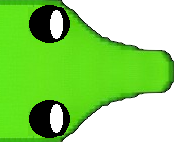
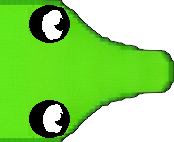
-

Changed region(s): [[0.2299, 0.7324, 0.3736, 0.9296], [0.2299, 0.0563, 0.3161, 0.2817], [0.3161, 0.1127, 0.3736, 0.2254]]

diff --git a/game.py b/game.py
@@ -606,6 +606,10 @@ class Game:
                             self.running = False
                     continue
 
+                if event.key == pygame.K_q:
+                    self.jump_to_final_boss()
+                    continue
+
                 if not self.game_started and self.menu_page == "main" and self.intro_active:
                     self.intro_active = False
                     self.intro_done = True
@@ -1089,12 +1093,19 @@ class Game:
         boss_x, boss_y = self.boss_pos
         return int(boss_x), int(boss_y), self.boss_width, self.boss_height
 
+    def _boss_contact_hitbox_cells(self) -> tuple[float, float, float, float]:
+        boss_x, boss_y = self.boss_pos
+        inset = 0.2
+        width = max(0.1, self.boss_width - inset * 2)
+        height = max(0.1, self.boss_height - inset * 2)
+        return boss_x + inset, boss_y + inset, width, height
+
     def _check_side_scroller_collisions(self):
         if not self.snake:
             return
         head_x, head_y = self.snake.head
         if self.boss_active:
-            bx, by, bw, bh = self._boss_rect_cells()
+            bx, by, bw, bh = self._boss_contact_hitbox_cells()
             if bx <= head_x < bx + bw and by <= head_y < by + bh:
                 self.play_sound("death")
                 self.game_over = True
@@ -1225,6 +1236,46 @@ class Game:
         if self.game_started:
             self.complete_level()
 
+    def jump_to_final_boss(self):
+        """Debug helper: jump straight to the final boss fight."""
+        self.game_started = True
+        self.game_over = False
+        self.level_clear = False
+        self.loading_active = False
+        self.story_active = False
+        self.story_text = ""
+        self.story_next_action = ""
+        self.game_paused = False
+        self.menu_page = "main"
+        self.intro_active = False
+        self.intro_done = True
+        self.input_locked = False
+        self.queued_direction = None
+        self.sacrifice_shot_active = False
+        self.sacrifice_explosions.clear()
+        self.side_scroller_active = False
+        self.player_shots.clear()
+        self.boss_bullets.clear()
+        self.boss_active = False
+        self.boss_hp = 0
+        self.boss_state = "hidden"
+        self.space_fade = 0.0
+        self.space_fade_time_ms = 0.0
+        self.space_fade_active = False
+        self.starfield = []
+
+        self.start_music()
+        self.level = self.escape_level
+        self.level_start_points = self.points
+        self.level_start_time_ms = self.elapsed_time_ms
+        self.layout_ready = False
+        self.start_level()
+        self.enter_side_scroller()
+        self.sacrifice_ammo = max(self.sacrifice_ammo, 10)
+        self.space_fade = 1.0
+        self._start_boss_approach()
+        self.spawn_food()
+
     def draw(self):
         if self.game_over:
             self.draw_game_over()
@@ -1306,7 +1357,7 @@ class Game:
         pygame.draw.rect(mask, (255, 255, 255, 255), mask.get_rect(), border_radius=radius)
         rounded = image.copy()
         rounded.blit(mask, (0, 0), special_flags=pygame.BLEND_RGBA_MULT)
-        return rounded
+        return pygame.transform.flip(rounded, True, False)
 
     def draw_pause_screen(self):
         if self.side_scroller_active:
@@ -1369,12 +1420,8 @@ class Game:
         rect = self._boss_rect_pixels()
         if self.boss_sprite:
             self.screen.blit(self.boss_sprite, rect.topleft)
-            glow = rect.inflate(10, 10)
-            pygame.draw.rect(self.screen, (120, 40, 70), glow, width=2, border_radius=12)
         else:
             pygame.draw.rect(self.screen, (220, 70, 90), rect, border_radius=8)
-            glow = rect.inflate(8, 8)
-            pygame.draw.rect(self.screen, (140, 40, 60), glow, width=2, border_radius=10)
 
         if self.boss_hp > 0:
             hp_ratio = max(0.0, min(1.0, self.boss_hp / 10))
@@ -1813,12 +1860,18 @@ class Game:
         if len(self.player_shots) >= self.player_shot_limit:
             return False
         head_x, head_y = self.snake.head
+        dx, dy = self.snake.pending_direction
+        if (dx, dy) == (0, 0):
+            dx, dy = self.snake.direction
+        if (dx, dy) == (0, 0):
+            return False
+        offset = 0.55
         self.player_shots.append(
             {
-                "x": head_x + 0.7,
-                "y": head_y + 0.5,
-                "vx": 1.0,
-                "vy": 0.0,
+                "x": head_x + 0.5 + dx * offset,
+                "y": head_y + 0.5 + dy * offset,
+                "vx": float(dx),
+                "vy": float(dy),
             }
         )
         return True
